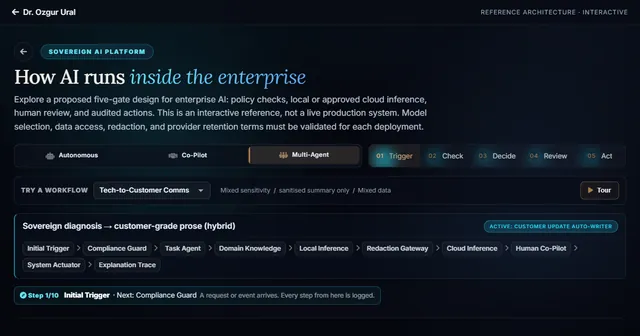
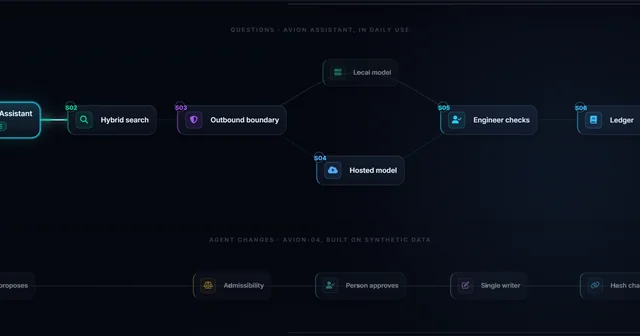
Home: the strategy card shows the new diagram and fills its row
The card image was a screenshot of the old page ("How AI runs inside the
enterprise"); it is now the new diagram, centre crop, captured at 2x.
On the wide last card the picture stretches to the card's height instead
of leaving a gap under it, and the text says what the view shows.

diff --git a/_sass/_components.scss b/_sass/_components.scss
@@ -2918,6 +2918,9 @@ body.labf-embed .labf__chrome { display: none; }
   .ep-cards--two > li:last-child:nth-child(odd):has(> .media) > .media {
     grid-column: 1;
     grid-row: 1 / span 4;
+    align-self: stretch;
+    aspect-ratio: auto;
+    min-height: 14rem;
     margin: -1rem 0 -1rem -1.15rem;
     border-bottom: 0;
     border-right: 1px solid var(--ds-line);

diff --git a/_pages/about.md b/_pages/about.md
@@ -84,7 +84,7 @@ redirect_from:
     <a class="media" href="/enterprise-ai-architecture.html" tabindex="-1" aria-hidden="true"><img src="/images/cards/enterprise-ai.webp" alt="" width="640" height="336" loading="lazy" decoding="async"><span class="media__badge">Interactive</span></a>
     <div class="meta">2026 · Avion · Architecture</div>
     <h3 class="title"><a href="/enterprise-ai-architecture.html">Enterprise AI strategy and reference architecture</a></h3>
-    <p class="desc">The adoption roadmap and reference architecture I wrote for Avion, spanning on-premises inference, governed cloud APIs and edge workloads; the assistant above is the part of it that is built. The design distinguishes prototypes from proposed capabilities.</p>
+    <p class="desc">The adoption roadmap and reference architecture I wrote for Avion, spanning on-premises inference, governed cloud APIs and edge workloads. The interactive view shows what runs: the assistant's question path and the governed agent path, each step marked in use, lab or synthetic.</p>
   </li>
 </ul>
 
